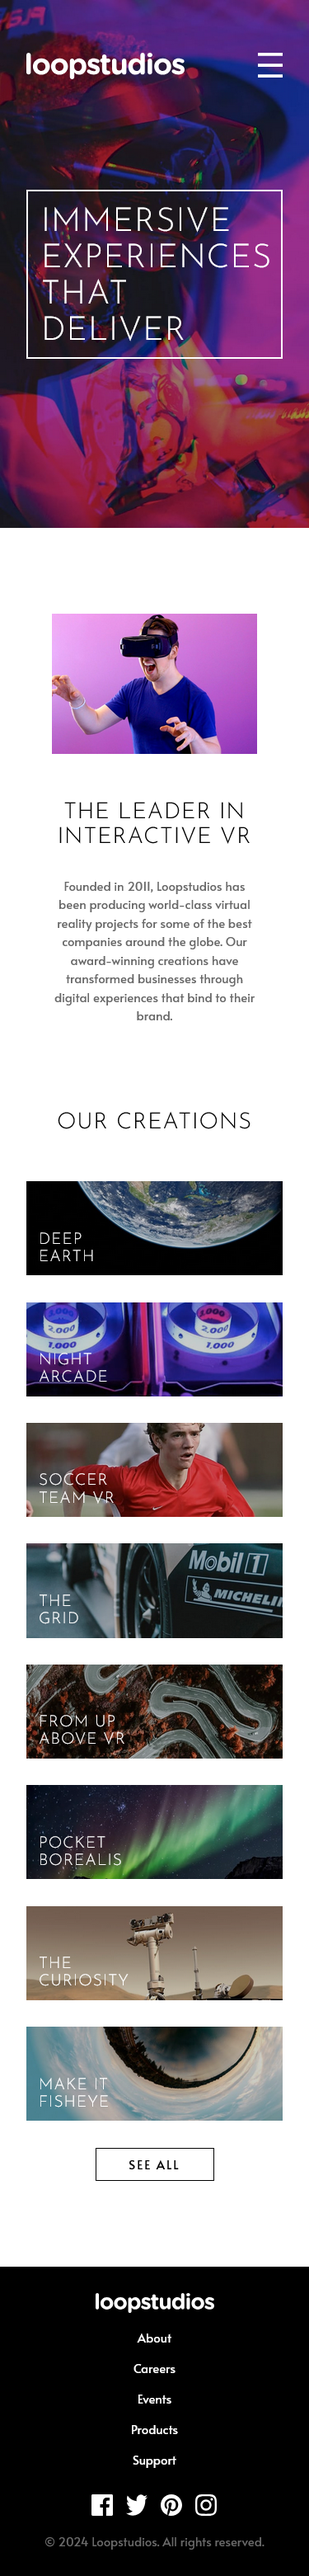
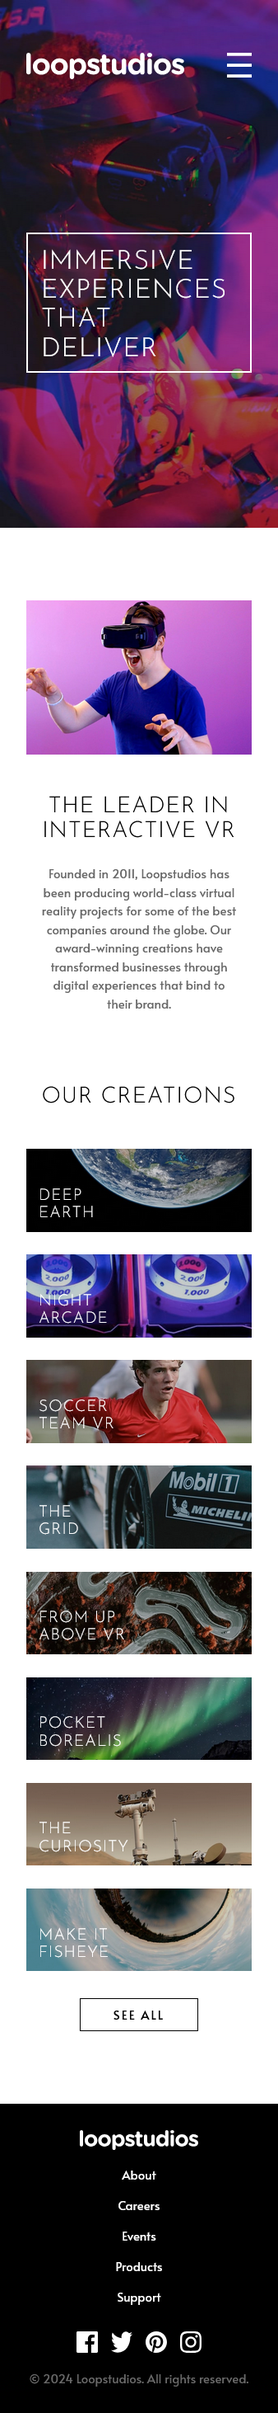
Modify responsive design for the first and second sections

diff --git a/assets/css/style.css b/assets/css/style.css
@@ -441,7 +441,7 @@ footer nav ul {
         position: relative;
         left: initial;
         top: initial;
-        width: 80%;
+        width: 100%;
         padding: 0;
         height: auto;
         text-align: center;
@@ -451,14 +451,32 @@ footer nav ul {
         display: flex;
         flex-direction: column;
         align-items: center;
+        margin-top: 5.5rem;
+        margin-bottom: 5.5rem;
+    }
+    
+    .first-section h2 {
+        margin-top: 3rem;
+        margin-bottom: 1.5rem;
+    }
+    
+    .first-section img {
+        width: 100%;
+    }
+    .first-section p {
+        padding: 0 1rem;
     }
 
-    .first-section h2 {
-        margin-top: 3.5rem;
+    .second-section {
+        margin-bottom: 5.5rem;
     }
 
     .second-section h2 {
         margin: 0 auto;
+    }
+
+    .title-btn-container {
+        margin-bottom: 3rem;
     }
 
     .title-btn-container .button {
@@ -473,6 +491,7 @@ footer nav ul {
     .grid-container {
         display: flex;
         flex-direction: column;
+        gap: 1.5rem;
     }
 
     .grid-container h3 {
